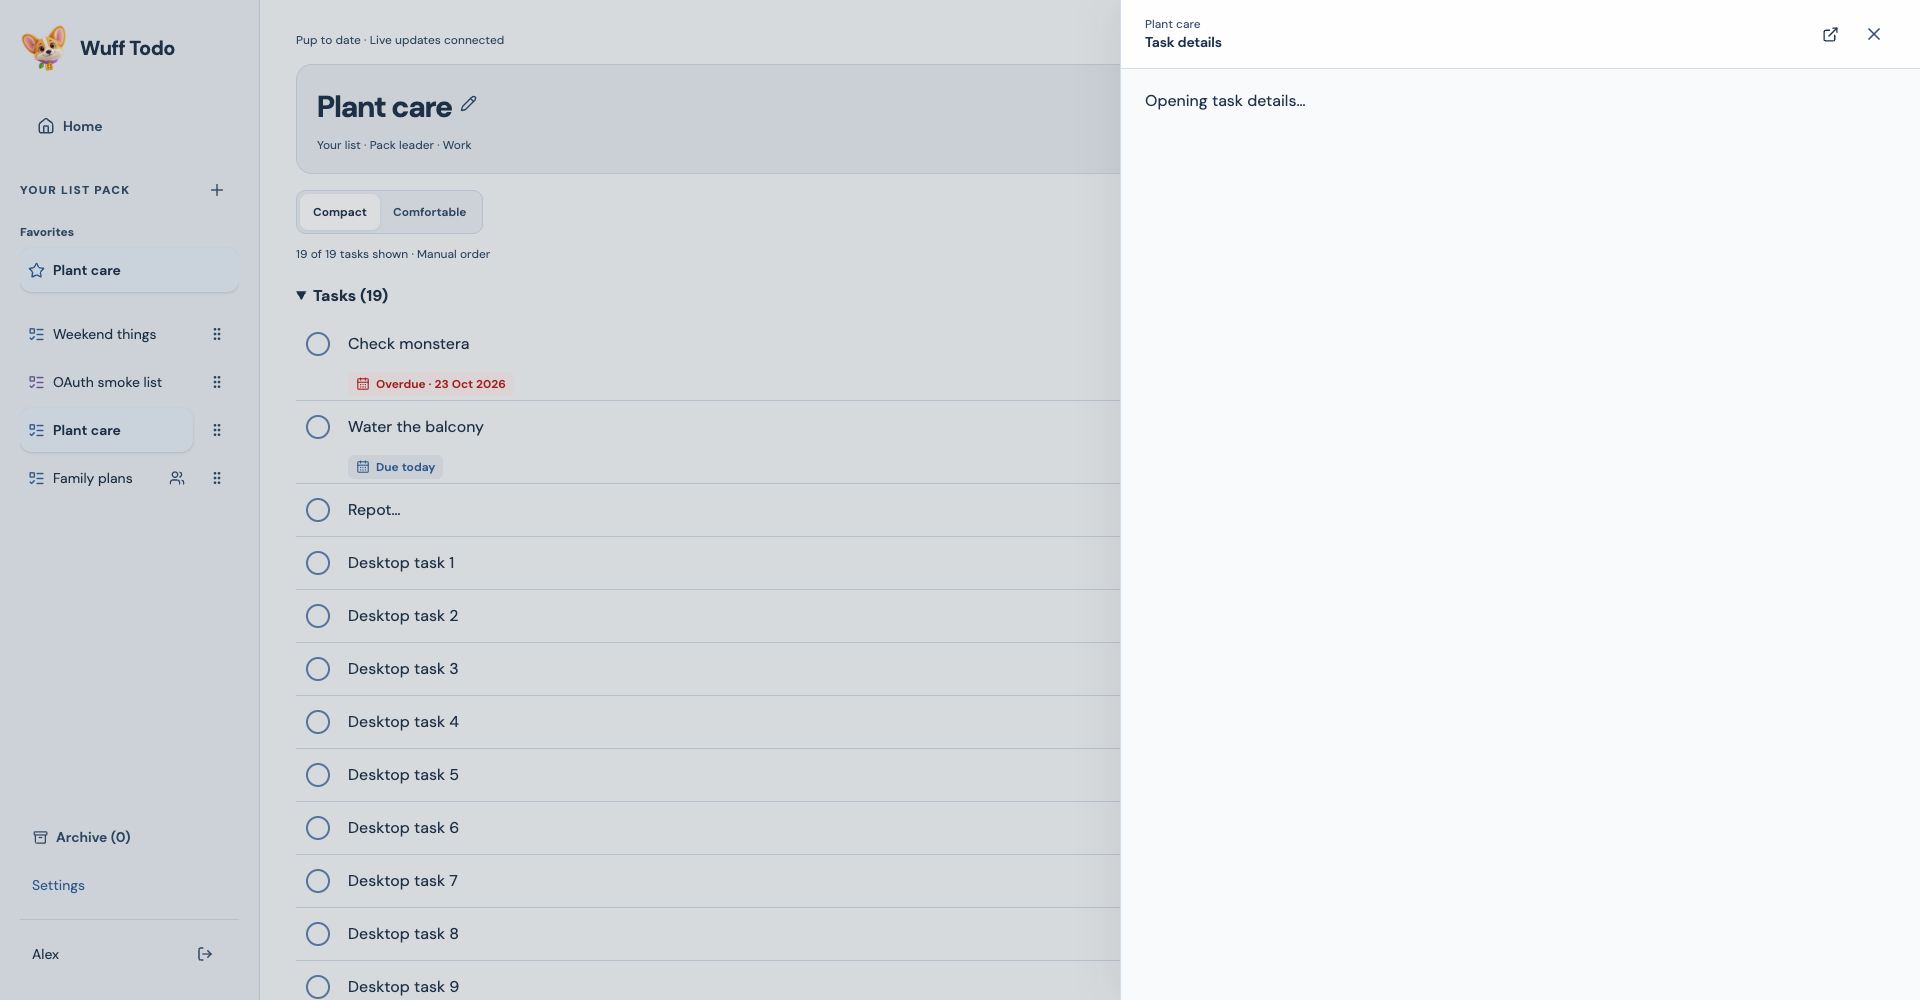
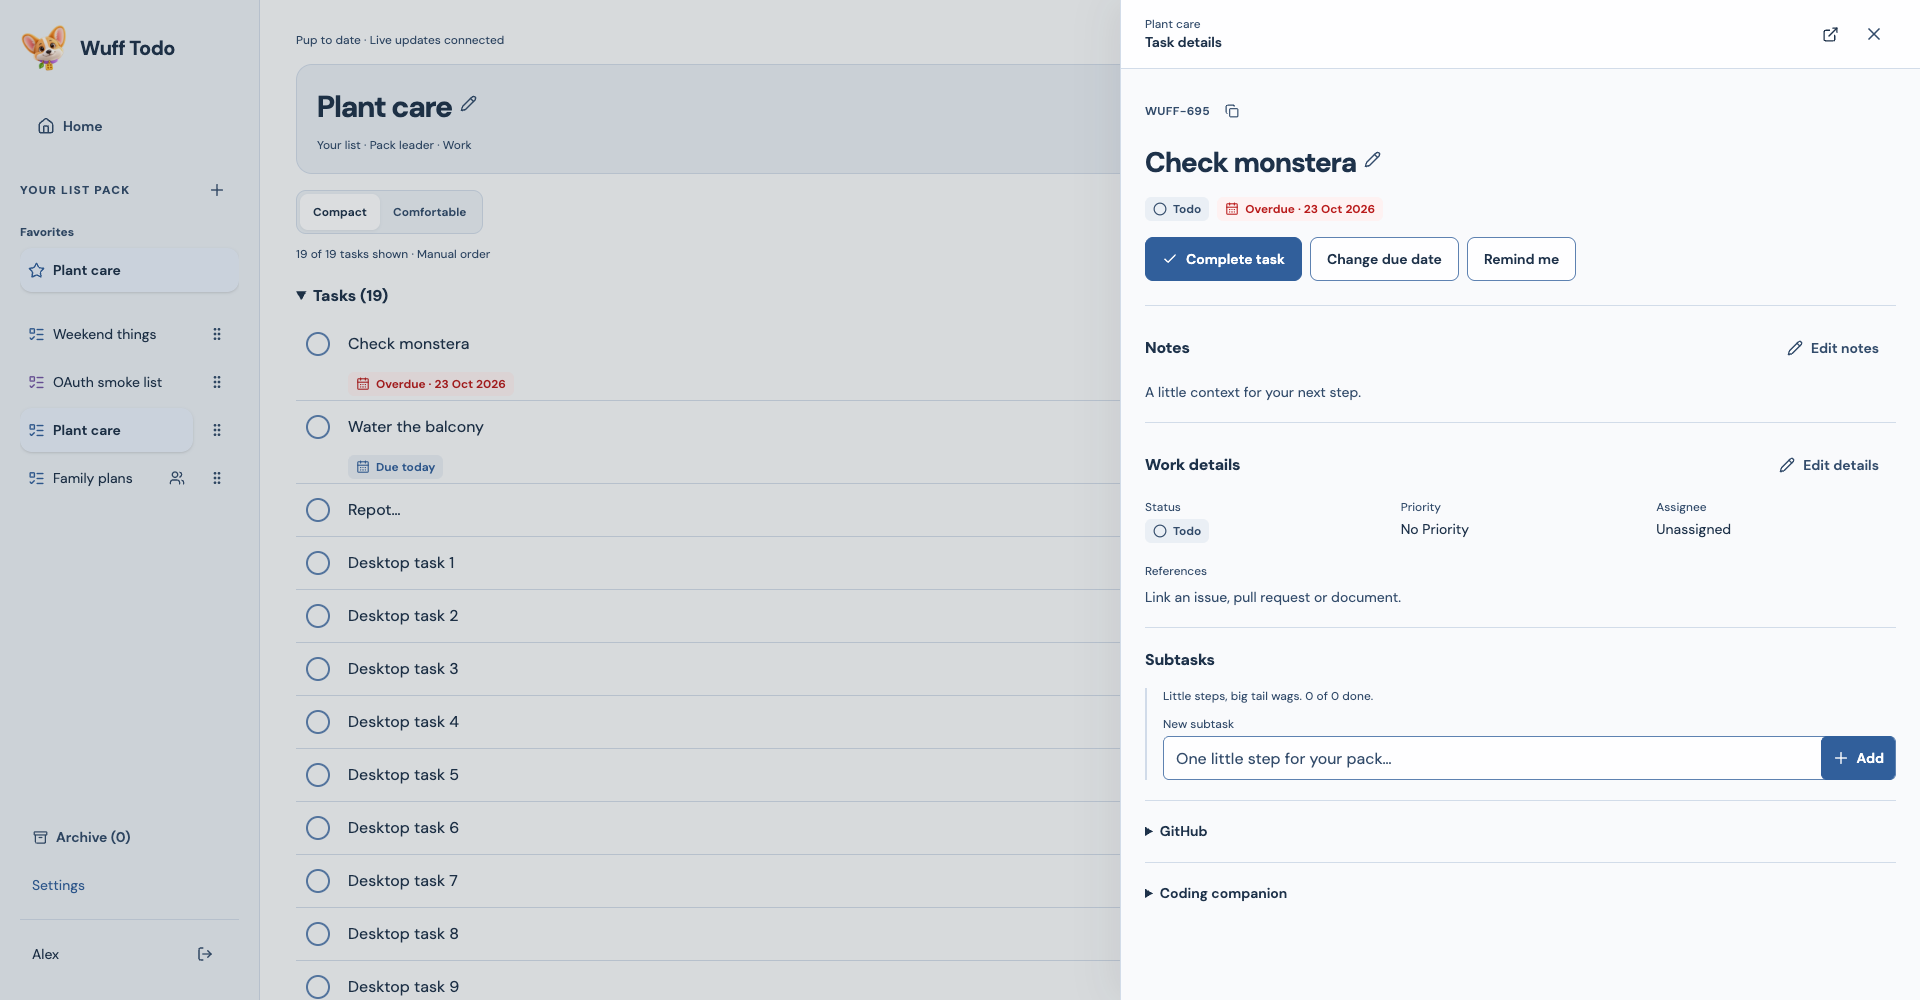
Record desktop workspace production verification

diff --git a/scripts/verify-desktop-workspace.ts b/scripts/verify-desktop-workspace.ts
@@ -258,6 +258,9 @@ try {
     exact: true,
   });
   await expect(drawer).toBeVisible();
+  await expect(
+    drawer.getByRole("button", { name: "Edit task notes", exact: true }),
+  ).toBeVisible();
   assert.ok((await drawer.boundingBox()).width >= 790);
   await page.screenshot({
     path: "docs/screenshots/desktop-task-drawer.png",

diff --git a/docs/verification.md b/docs/verification.md
@@ -252,3 +252,7 @@ validation remain separate from these local checks.
 See [layout decisions and browser harness](desktop-workspace.md). Home uses a fluid 1/2/3-column grid, desktop lists fill the canvas beside fixed-width navigation, and task/settings pages use wider layouts. The shared Tauri frontend receives the same styles.
 
 Local TypeScript, optimized web/MCP/prototype build and native frontend build passed. `scripts/verify-desktop-workspace.ts` exercises the actual optimized website with development-only synthetic fixtures: 320/390/768/1024/1280/1440/1920px canvas/card/overflow measurements, 1440×500 independent main/navigation scrolling and pinned account footer, 800px drawer, unsaved draft retention on phone resize, and task/settings columns. It also retains Home navigation/customization/reload/reset/all-hidden/history/startup, exact retry, conflict draft recovery, failed-read recovery and account-isolation checks. Fixture data and synthetic personal preferences are restored afterward. Hidden status announcements are positioned within the scroll canvas so they cannot extend document scrolling below it. Production release evidence follows after deployment; these checks do not prove installed native behavior or screen-reader use.
+
+Source `077013a` was committed/pushed to main. GitHub Verify run `40030934697` and Native test builds run `40030934474` failed before any steps: check annotation says recent account payments failed or the spending limit needs increasing. Local checks above passed; remote CI and newly published native artifacts are not claimed.
+
+Vercel CLI production deployment `dpl_HzxLuEUaeiKiS1VRNNse8YjdRJzT` is Ready, aliased to `https://wuff-todo.vercel.app`, with `fra1` outputs. Authenticated production Chrome at 1710px measured three visible Home tracks (~443px each), a 1450px main canvas beginning at x=260, a 1378px list heading, and no horizontal document overflow. Task pages measured 1440px with Notes/context tracks ~827/517px; Settings measured 1440px, both without overflow. Live updates connected, existing list/task data rendered, and no captured console errors occurred. These production checks only navigated/read; no production fixture, content or preference mutation was needed. [Production Home screenshot](screenshots/desktop-production.png). The browser harness was rerun successfully after ensuring the drawer screenshot waits for loaded task controls.

diff --git a/docs/desktop-workspace.md b/docs/desktop-workspace.md
@@ -12,4 +12,4 @@ The user asked for Home cards in rows and better use of the desktop canvas acros
 
 ## Verification and release
 
-Use `node --env-file=.env.local --import tsx scripts/verify-desktop-workspace.ts` with the optimized local website, separately from other synthetic auth/fixture runs. It measures card tracks/canvas/overflow at 320/390/768/1024/1280/1440/1920px and checks scrolling, footer visibility, drawer draft retention, task/settings layouts, and existing Home customization/retry/history recovery. Fixtures and personal synthetic preferences are restored afterward. Production evidence is recorded in `verification.md` when complete. Installed native devices and screen-reader behavior remain separate checks.
+Use `node --env-file=.env.local --import tsx scripts/verify-desktop-workspace.ts` with the optimized local website, separately from other synthetic auth/fixture runs. It measures card tracks/canvas/overflow at 320/390/768/1024/1280/1440/1920px and checks scrolling, footer visibility, drawer draft retention, task/settings layouts, and existing Home customization/retry/history recovery. Fixtures and personal synthetic preferences are restored afterward. Production deployment and authenticated geometry checks passed; exact evidence is recorded in [verification](verification.md#desktop-workspace--october-24-2026). Installed native devices and screen-reader behavior remain separate checks.

diff --git a/docs/implementation-plan.md b/docs/implementation-plan.md
@@ -8,7 +8,7 @@ The web/API/MCP foundation and existing-account sharing are implemented and depl
 
 ## Current status and handoff
 
-- **Desktop workspace (October 24):** fluid Home card rows, wider list/task/settings canvas and independently scrolling desktop navigation are implemented. See [layout decisions and verification](desktop-workspace.md).
+- **Desktop workspace (October 24):** fluid Home card rows, wider list/task/settings canvas and independently scrolling desktop navigation are released. Local 320–1920px browser checks and authenticated production geometry checks passed. See [layout decisions and verification](desktop-workspace.md).
 
 - **Personal Home (WUFF-87, October 23):** configurable welcome/Today/Coming up/Favorites is released on the website/MCP and marked done after authenticated production overview/layout/reload/startup/reset checks and fixture cleanup passed. Shared Tauri frontend and local domain/adapters/browser/SDK checks passed; native downloads remain blocked by GitHub runner billing limits. See [feature contract](home-dashboard.md).
 
